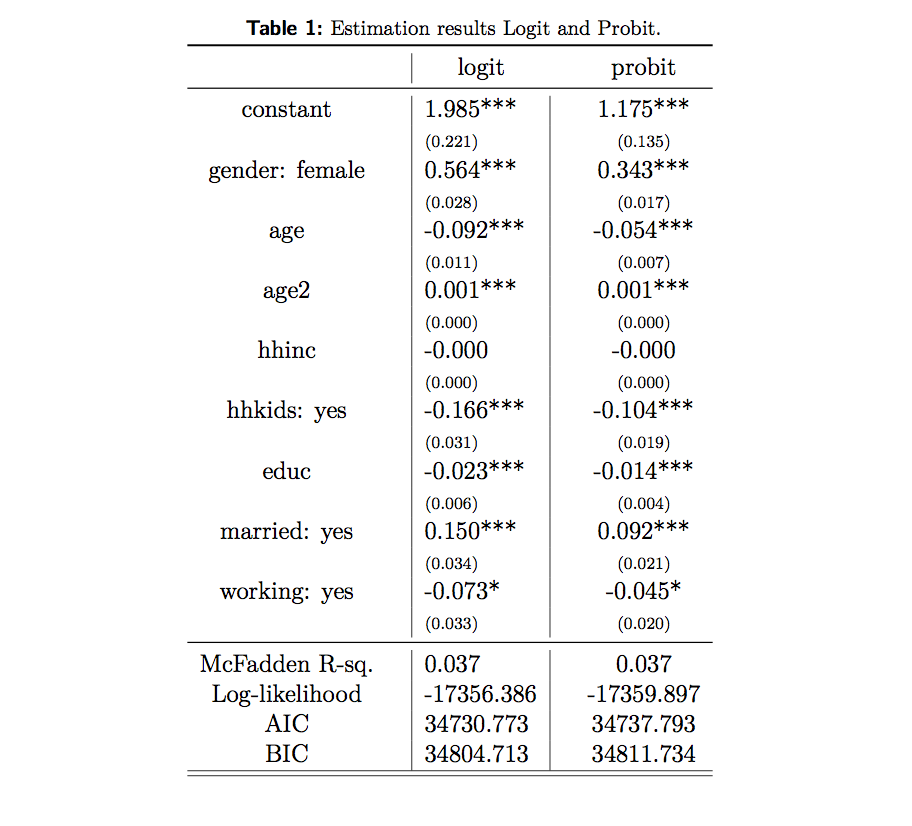
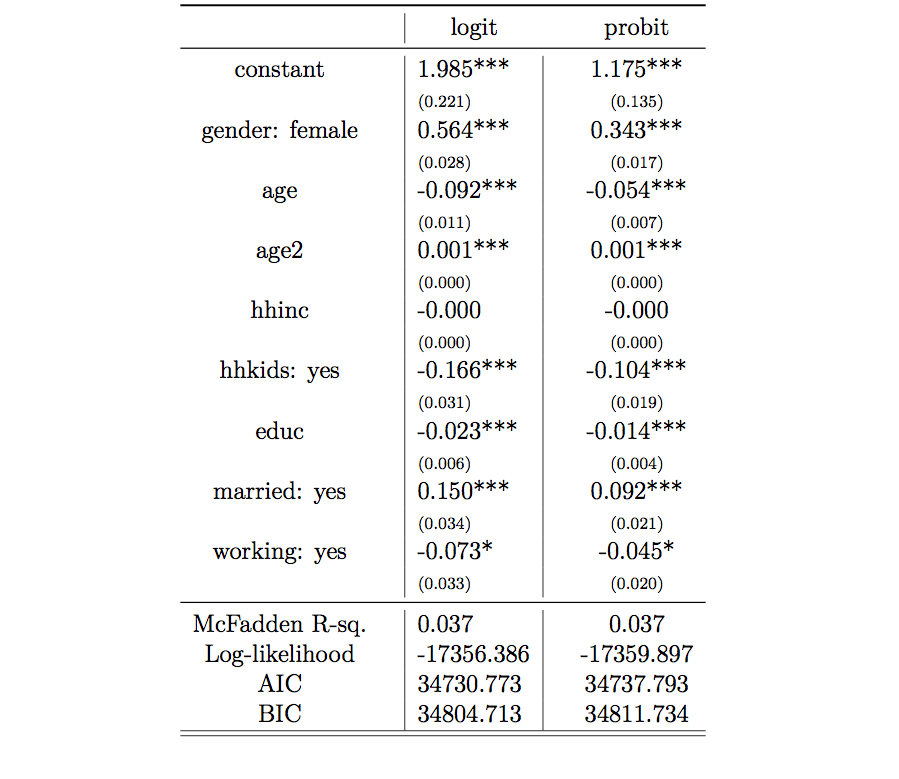
added the table to binary choice post

Changed region(s): [[0.1869, 0.0, 0.7786, 0.9551], [0.218, 0.6162, 0.4049, 0.7394], [0.2492, 0.4621, 0.3737, 0.5854]]

diff --git a/_site/economics/2014/06/20/binary-choice-models.html b/_site/economics/2014/06/20/binary-choice-models.html
@@ -14,9 +14,9 @@
   <link rel="alternate" type="application/rss+xml" title="himynameismarcel" href="/feed.xml">
 
   <link rel=”stylesheet” href=””>
-  <script type="text/javascript" async
-    src="https://cdnjs.cloudflare.com/ajax/libs/mathjax/2.7.2/MathJax.js?config=TeX-MML-AM_CHTML">
-  </script>
+  <script type="text/javascript"
+    src="http://cdn.mathjax.org/mathjax/latest/MathJax.js?config=TeX-AMS-MML_HTMLorMML">
+</script>
 
   
 </head>
@@ -577,7 +577,7 @@ significant, and for <code class="highlighter-rouge">hhkids: yes</code>, <code c
 <code class="highlighter-rouge">working: yes</code> the effects are significantly negative (though only on a
 5% significant level for <code class="highlighter-rouge">working: yes</code>).</p>
 
-<p><img src="http://localhost:4000/assets/binarychoice.png" alt="" />
+<p><img src="http://localhost:4000/assets/BinaryChoice.png" alt="" />
 <em>Estimation results Logit and Probit.</em></p>
 
 <h4 id="interpretation-of-parameters">Interpretation of Parameters</h4>

diff --git a/_includes/head.html b/_includes/head.html
@@ -11,9 +11,9 @@
   <link rel="alternate" type="application/rss+xml" title="{{ site.title | escape }}" href="{{ "/feed.xml" | relative_url }}">
 
   <link rel=”stylesheet” href=”{{ “/assets/custom.css” | relative_url }}”>
-  <script type="text/javascript" async
-    src="https://cdnjs.cloudflare.com/ajax/libs/mathjax/2.7.2/MathJax.js?config=TeX-MML-AM_CHTML">
-  </script>
+  <script type="text/javascript"
+    src="http://cdn.mathjax.org/mathjax/latest/MathJax.js?config=TeX-AMS-MML_HTMLorMML">
+</script>
 
   {% if jekyll.environment == 'production' and site.google_analytics %}
   {% include google-analytics.html %}

diff --git a/_site/404.html b/_site/404.html
@@ -14,9 +14,9 @@
   <link rel="alternate" type="application/rss+xml" title="himynameismarcel" href="/feed.xml">
 
   <link rel=”stylesheet” href=””>
-  <script type="text/javascript" async
-    src="https://cdnjs.cloudflare.com/ajax/libs/mathjax/2.7.2/MathJax.js?config=TeX-MML-AM_CHTML">
-  </script>
+  <script type="text/javascript"
+    src="http://cdn.mathjax.org/mathjax/latest/MathJax.js?config=TeX-AMS-MML_HTMLorMML">
+</script>
 
   
 </head>

diff --git a/_site/A-Markdown-Crash-Course.html b/_site/A-Markdown-Crash-Course.html
@@ -14,9 +14,9 @@
   <link rel="alternate" type="application/rss+xml" title="himynameismarcel" href="/feed.xml">
 
   <link rel=”stylesheet” href=””>
-  <script type="text/javascript" async
-    src="https://cdnjs.cloudflare.com/ajax/libs/mathjax/2.7.2/MathJax.js?config=TeX-MML-AM_CHTML">
-  </script>
+  <script type="text/javascript"
+    src="http://cdn.mathjax.org/mathjax/latest/MathJax.js?config=TeX-AMS-MML_HTMLorMML">
+</script>
 
   
 </head>

diff --git a/_site/Collapsible-Tree-With-D3js.html b/_site/Collapsible-Tree-With-D3js.html
@@ -14,9 +14,9 @@
   <link rel="alternate" type="application/rss+xml" title="himynameismarcel" href="/feed.xml">
 
   <link rel=”stylesheet” href=””>
-  <script type="text/javascript" async
-    src="https://cdnjs.cloudflare.com/ajax/libs/mathjax/2.7.2/MathJax.js?config=TeX-MML-AM_CHTML">
-  </script>
+  <script type="text/javascript"
+    src="http://cdn.mathjax.org/mathjax/latest/MathJax.js?config=TeX-AMS-MML_HTMLorMML">
+</script>
 
   
 </head>

diff --git a/_site/about/index.html b/_site/about/index.html
@@ -14,9 +14,9 @@
   <link rel="alternate" type="application/rss+xml" title="himynameismarcel" href="/feed.xml">
 
   <link rel=”stylesheet” href=””>
-  <script type="text/javascript" async
-    src="https://cdnjs.cloudflare.com/ajax/libs/mathjax/2.7.2/MathJax.js?config=TeX-MML-AM_CHTML">
-  </script>
+  <script type="text/javascript"
+    src="http://cdn.mathjax.org/mathjax/latest/MathJax.js?config=TeX-AMS-MML_HTMLorMML">
+</script>
 
   
 </head>

diff --git a/_site/index.html b/_site/index.html
@@ -14,9 +14,9 @@
   <link rel="alternate" type="application/rss+xml" title="himynameismarcel" href="/feed.xml">
 
   <link rel=”stylesheet” href=””>
-  <script type="text/javascript" async
-    src="https://cdnjs.cloudflare.com/ajax/libs/mathjax/2.7.2/MathJax.js?config=TeX-MML-AM_CHTML">
-  </script>
+  <script type="text/javascript"
+    src="http://cdn.mathjax.org/mathjax/latest/MathJax.js?config=TeX-AMS-MML_HTMLorMML">
+</script>
 
   
 </head>
